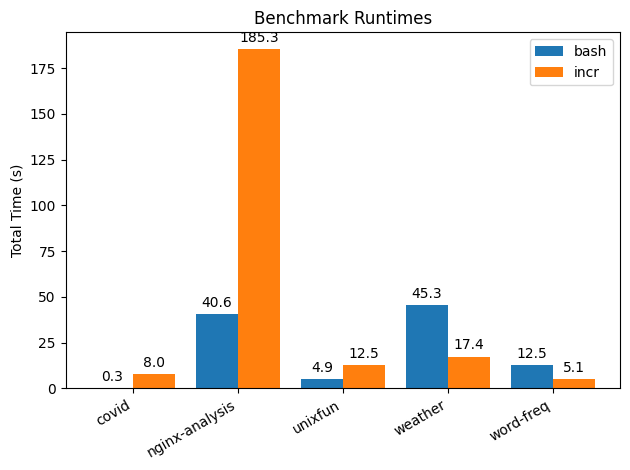
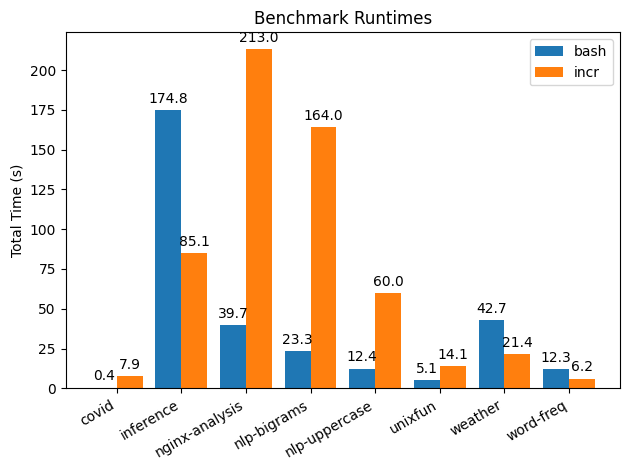
results

diff --git a/src/config.rs b/src/config.rs
@@ -86,7 +86,7 @@ pub(crate) const COMMIT_DIRECTORY: &str = "commit";
 
 pub(crate) const CHUNK_SIZE: usize = 65536;
 pub(crate) const SUDO_SANDBOX: bool = true;
-pub(crate) const DEBUG: bool = true;
+pub(crate) const DEBUG: bool = false;
 pub(crate) const DEBUG_LOGS: bool = DEBUG && true;
 pub(crate) const DEBUG_LOG_FILE: &str = "/users/jxia3/incr/debug_log.txt";
 

diff --git a/evaluation/analysis/plot.py b/evaluation/analysis/plot.py
@@ -4,7 +4,10 @@ import pandas as pd
 
 BENCHMARKS = [
     "covid",
+    "inference",
     "nginx-analysis",
+    "nlp-bigrams",
+    "nlp-uppercase",
     "unixfun",
     "weather",
     "word-freq",
